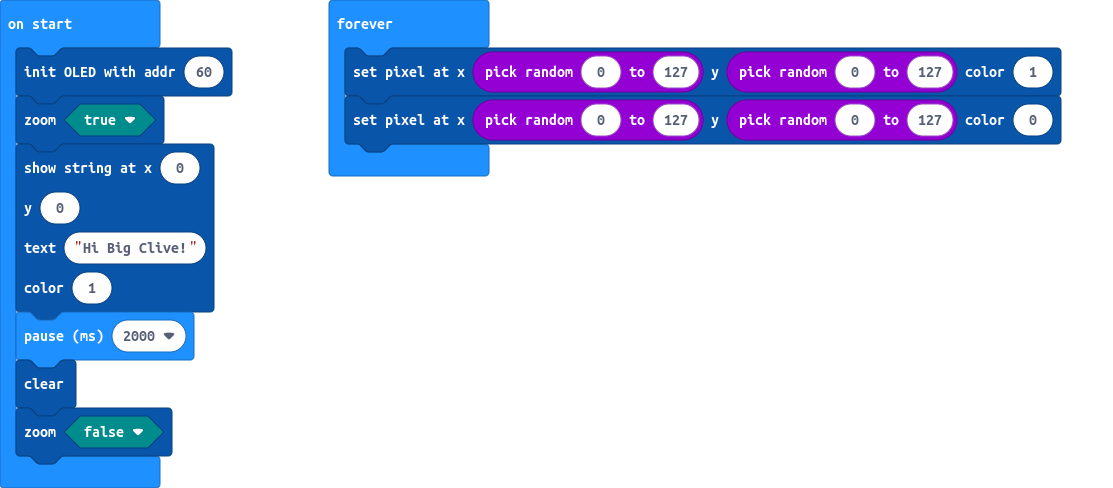
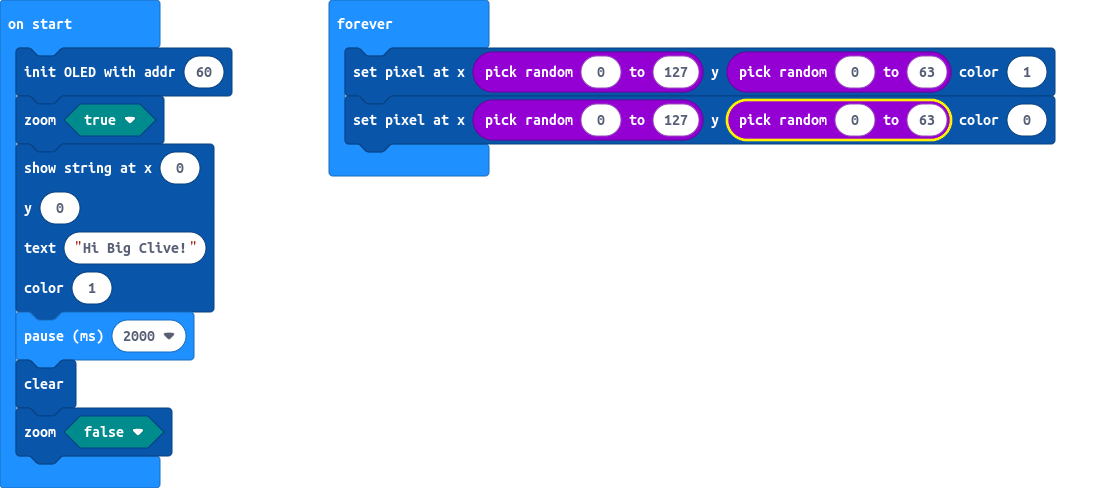
Update main.blocks, main.ts

diff --git a/main.ts b/main.ts
@@ -10,6 +10,6 @@ basic.pause(2000)
 OLED12864_I2C.clear()
 OLED12864_I2C.zoom(false)
 basic.forever(function () {
-    OLED12864_I2C.pixel(randint(0, 127), randint(0, 127), 1)
-    OLED12864_I2C.pixel(randint(0, 127), randint(0, 127), 0)
+    OLED12864_I2C.pixel(randint(0, 127), randint(0, 63), 1)
+    OLED12864_I2C.pixel(randint(0, 127), randint(0, 63), 0)
 })
